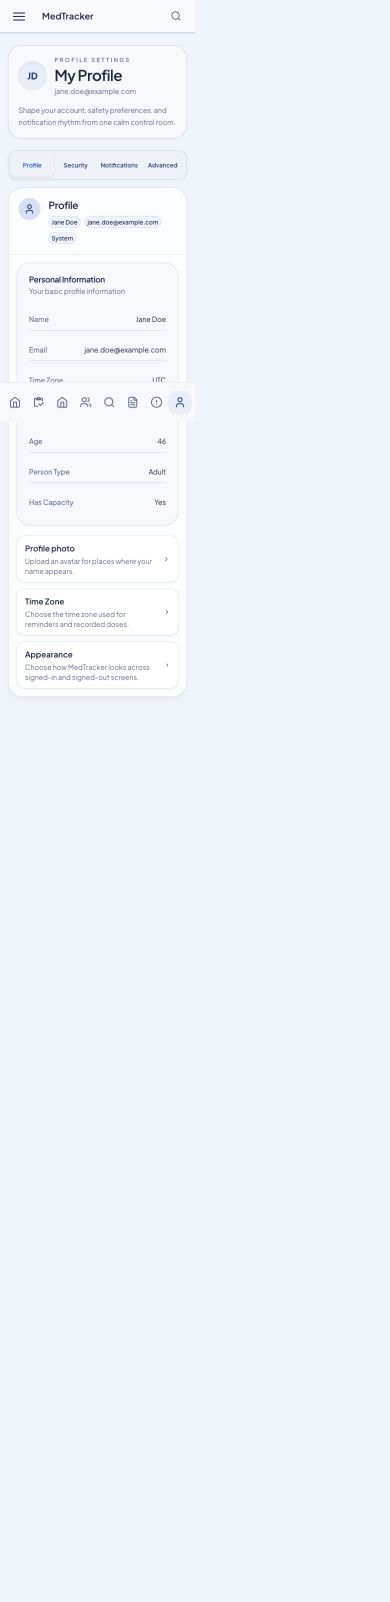
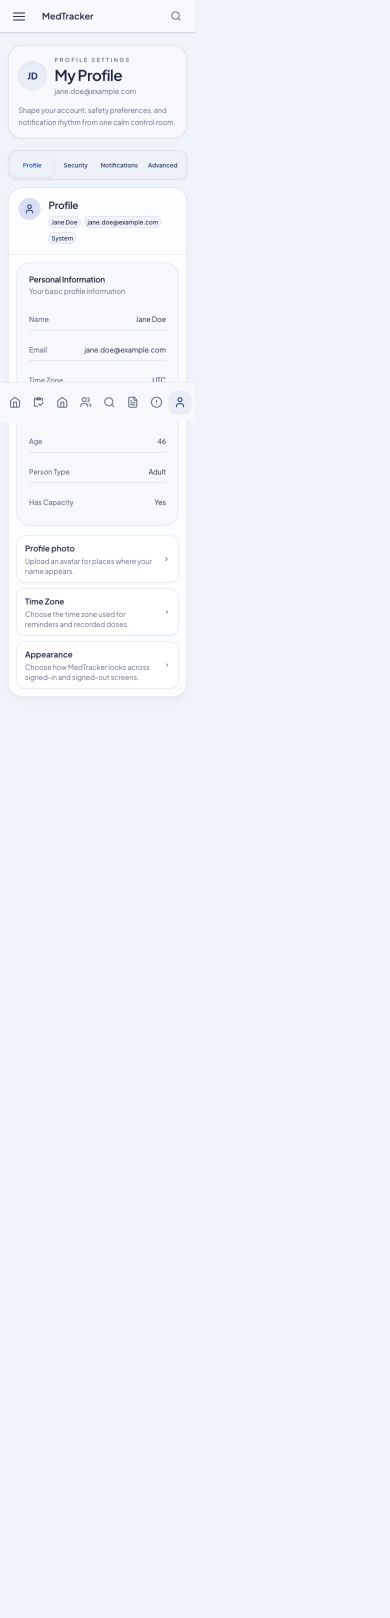
fix(profile): switch tabs in place

Changed region(s): [[0.0615, 0.0312, 0.4308, 0.437], [0.3385, 0.1873, 0.4308, 0.3121], [0.2154, 0.2185, 0.2462, 0.2497]]

diff --git a/app/javascript/controllers/ruby_ui/tabs_controller.js b/app/javascript/controllers/ruby_ui/tabs_controller.js
@@ -20,15 +20,26 @@ export default class extends Controller {
 
     this.contentTargets.forEach((el) => {
       el.classList.add("hidden");
+      el.hidden = true;
     });
 
     this.triggerTargets.forEach((el) => {
       el.dataset.state = "inactive";
+      el.setAttribute("aria-selected", "false");
     });
 
-    this.activeContentTarget() &&
-      this.activeContentTarget().classList.remove("hidden");
-    this.activeTriggerTarget().dataset.state = "active";
+    const activeContent = this.activeContentTarget();
+    const activeTrigger = this.activeTriggerTarget();
+
+    if (activeContent) {
+      activeContent.classList.remove("hidden");
+      activeContent.hidden = false;
+    }
+
+    if (activeTrigger) {
+      activeTrigger.dataset.state = "active";
+      activeTrigger.setAttribute("aria-selected", "true");
+    }
   }
 
   activeTriggerTarget() {

diff --git a/app/views/profiles/show.rb b/app/views/profiles/show.rb
@@ -47,13 +47,14 @@ module Views
       def render_sections
         render RubyUI::Tabs.new(default: presenter.active_section, class: 'space-y-4') do
           render_section_tabs
-          render_active_section
+          render_section_panels
         end
       end
 
       def render_section_tabs
         nav(aria: { label: t('profiles.show.title') }) do
           render RubyUI::TabsList.new(
+            role: 'tablist',
             class: 'flex h-auto w-full rounded-shape-lg border border-outline-variant/70 ' \
                    'bg-surface-container p-1 shadow-elevation-1'
           ) do
@@ -66,10 +67,12 @@ module Views
         active = presenter.active_section == key.to_s
         render RubyUI::TabsTrigger.new(
           value: key.to_s,
-          as: :a,
           id: "profile-tab-#{key}",
-          href: profile_path(section: key),
-          aria: { current: active ? 'page' : nil },
+          role: 'tab',
+          aria: {
+            controls: "profile-#{key}-panel",
+            selected: active.to_s
+          },
           data: {
             state: active ? 'active' : 'inactive',
             testid: 'profile-section-tab',
@@ -81,11 +84,26 @@ module Views
         ) { t("profiles.sections.#{key}.title") }
       end
 
-      def render_active_section
-        case presenter.active_section
-        when 'security' then render_security_section
-        when 'notifications' then render_notifications_section
-        when 'advanced' then render_advanced_section
+      def render_section_panels
+        SECTION_KEYS.each do |key|
+          render RubyUI::TabsContent.new(
+            value: key.to_s,
+            id: "profile-#{key}-panel",
+            role: 'tabpanel',
+            aria: { labelledby: "profile-tab-#{key}" },
+            hidden: presenter.active_section != key.to_s,
+            tabindex: 0,
+            data: { testid: 'profile-section-panel' },
+            class: 'mt-0'
+          ) { render_section(key) }
+        end
+      end
+
+      def render_section(key)
+        case key
+        when :security then render_security_section
+        when :notifications then render_notifications_section
+        when :advanced then render_advanced_section
         else render_profile_section
         end
       end

diff --git a/spec/system/profile_editing_spec.rb b/spec/system/profile_editing_spec.rb
@@ -203,7 +203,7 @@ RSpec.describe 'Profile Editing' do
       expect(page.evaluate_script('document.activeElement === arguments[0]', trigger)).to be(true)
     end
 
-    it 'switches one full-width profile tab at a time without browser errors', :aggregate_failures do
+    it 'switches same-page profile tabs without navigating or browser errors', :aggregate_failures do
       browser_errors = []
       page.driver.with_playwright_page do |playwright_page|
         playwright_page.on('console', ->(message) { browser_errors << message.text if message.type == 'error' })
@@ -214,15 +214,18 @@ RSpec.describe 'Profile Editing' do
         tab.evaluate_script('this.getBoundingClientRect().top')
       end
       expect(tab_tops.uniq.size).to eq(1)
+      initial_path = page.current_url
       open_profile_section('security')
 
-      expect(page).to have_current_path(profile_path(section: 'security'))
-      expect(page).to have_css('[data-profile-section="security"][aria-current="page"]')
+      expect(page.current_url).to eq(initial_path)
+      expect(page).to have_css('[data-profile-section="security"][aria-selected="true"]')
+      expect(page).to have_css('[data-profile-section="profile"][aria-selected="false"]')
       expect(page).to have_css(
-        '[data-testid="profile-section-panel"][aria-labelledby="profile-tab-security"]', count: 1
+        '[data-testid="profile-section-panel"][aria-labelledby="profile-tab-security"]:not(.hidden)', count: 1
       )
-      expect(find('[data-testid="profile-section-panel"]').evaluate_script('this.getBoundingClientRect().width'))
-        .to be > 700
+      expect(page).to have_css('[data-testid="profile-section-panel"]', count: 4, visible: :all)
+      visible_panel = find('[data-testid="profile-section-panel"]:not(.hidden)')
+      expect(visible_panel.evaluate_script('this.getBoundingClientRect().width')).to be > 700
       expect(browser_errors).to be_empty
     end
 

diff --git a/spec/components/views/profiles/show_spec.rb b/spec/components/views/profiles/show_spec.rb
@@ -53,18 +53,19 @@ RSpec.describe Views::Profiles::Show, type: :component do
     tabs = rendered.css('[data-testid="profile-section-tab"]')
 
     expect(tabs.map { |tab| tab.text.squish }).to eq(%w[Profile Security Notifications Advanced])
-    expect(tabs.find { |tab| tab.text.include?('Profile') }['aria-current']).to eq('page')
-    expect(tabs.drop(1).pluck('aria-current')).to all(be_nil)
-    expect(rendered.css('[data-testid="profile-section-panel"]').size).to eq(1)
-    expect(rendered.at_css('[data-testid="profile-section-panel"]')['aria-labelledby']).to eq('profile-tab-profile')
+    expect(tabs.find { |tab| tab.text.include?('Profile') }['aria-selected']).to eq('true')
+    expect(tabs.drop(1).pluck('aria-selected')).to all(eq('false'))
+    expect(rendered.css('[data-testid="profile-section-panel"]').size).to eq(4)
+    expect(rendered.at_css('#profile-profile-panel')['aria-labelledby']).to eq('profile-tab-profile')
   end
 
-  it 'links every profile tab to its selected section' do
+  it 'connects every same-page tab to its panel' do
     rendered = render_inline(described_class.new(presenter:))
     tabs = rendered.css('[data-testid="profile-section-tab"]')
 
-    expect(tabs.map { |tab| tab['href'].split('?').last }).to eq(
-      %w[section=profile section=security section=notifications section=advanced]
+    expect(tabs.map(&:name)).to all(eq('button'))
+    expect(tabs.pluck('aria-controls')).to eq(
+      %w[profile-profile-panel profile-security-panel profile-notifications-panel profile-advanced-panel]
     )
   end
 

diff --git a/spec/requests/profiles_show_spec.rb b/spec/requests/profiles_show_spec.rb
@@ -32,20 +32,20 @@ RSpec.describe 'Profiles' do
         .to eq(%w[Profile Security Notifications Advanced])
     end
 
-    it 'selects a requested profile tab and falls back for invalid values' do
+    it 'renders same-page tabs with a requested initial tab and an invalid-value fallback' do
       get profile_path(section: 'security')
 
       security_tab = response.parsed_body.at_css('[data-profile-section="security"]')
-      expect(security_tab['aria-current']).to eq('page')
-      expect(response.parsed_body.at_css('[data-testid="profile-section-panel"]')['aria-labelledby'])
-        .to eq('profile-tab-security')
+      expect(security_tab.name).to eq('button')
+      expect(security_tab['aria-selected']).to eq('true')
+      expect(security_tab['aria-controls']).to eq('profile-security-panel')
+      expect(response.parsed_body.css('[role="tabpanel"][data-testid="profile-section-panel"]').size).to eq(4)
 
       get profile_path(section: 'unknown')
 
       profile_tab = response.parsed_body.at_css('[data-profile-section="profile"]')
-      expect(profile_tab['aria-current']).to eq('page')
-      expect(response.parsed_body.at_css('[data-testid="profile-section-panel"]')['aria-labelledby'])
-        .to eq('profile-tab-profile')
+      expect(profile_tab['aria-selected']).to eq('true')
+      expect(response.parsed_body.at_css('#profile-profile-panel')['aria-labelledby']).to eq('profile-tab-profile')
     end
 
     it 'renders only same-origin JavaScript imports' do

diff --git a/app/views/profiles/section.rb b/app/views/profiles/section.rb
@@ -19,10 +19,6 @@ module Views
 
       def view_template(&)
         section(
-          id: panel_id,
-          role: 'region',
-          aria: { labelledby: tab_id },
-          data: { testid: 'profile-section-panel' },
           class: 'overflow-hidden rounded-shape-xl border border-outline-variant/70 bg-card shadow-elevation-2'
         ) do
           render_header
@@ -57,14 +53,6 @@ module Views
             ) { item }
           end
         end
-      end
-
-      def panel_id
-        "profile-#{@key}-panel"
-      end
-
-      def tab_id
-        "profile-tab-#{@key}"
       end
 
       def appearance_summary_data(index)
